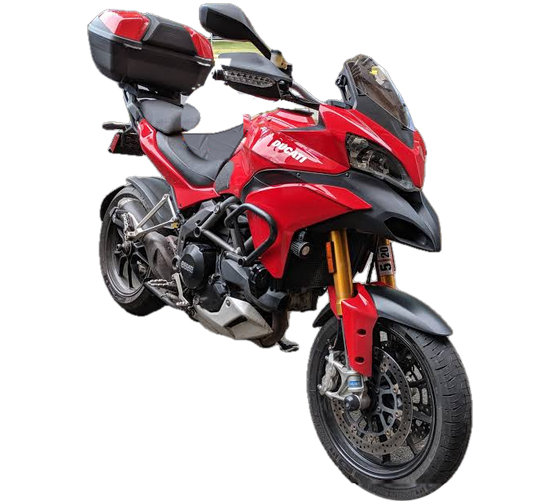
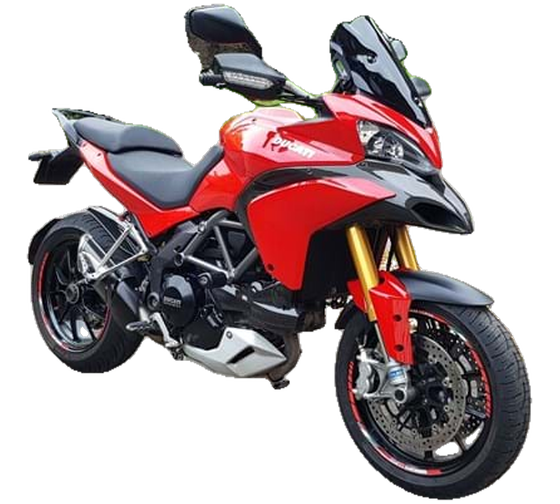
Ducati Multistrada 1200S : nouvelle photo
Claude-Session: https://claude.ai/code/session_01LUadX9RA5ykAi7zxkQXocc

diff --git a/sw.js b/sw.js
@@ -1,7 +1,7 @@
 /* Service worker : garde l'app disponible hors connexion.
    Change VERSION à chaque mise en ligne pour que les téléphones prennent la nouvelle version. */
-const VERSION = 'dms-v42';
-const FICHIERS = ['./', 'index.html', 'styles.css?v=39', 'app.js?v=40', 'donnees.js?v=39', 'icones.js?v=28', 'manifest.webmanifest?v=22', 'img/icone-192.png', 'img/icone-512.png', 'secours.js?v=20', 'polices/manrope-latin-wght-normal.woff2',
+const VERSION = 'dms-v43';
+const FICHIERS = ['./', 'index.html', 'styles.css?v=39', 'app.js?v=40', 'donnees.js?v=40', 'icones.js?v=28', 'manifest.webmanifest?v=22', 'img/icone-192.png', 'img/icone-512.png', 'secours.js?v=20', 'polices/manrope-latin-wght-normal.woff2',
   'img/logo.jpg', 'img/scooter.webp', 'img/cygnus-1.webp', 'img/cygnus-2.webp', 'img/cygnus-3.webp', 'img/rs-zero.webp', 'img/cygnus-4.webp', 'img/kymco-g6.webp', 'img/pgo-bon.webp', 'img/kymco-vjr-110.webp', 'img/kymco-vjr-125.webp', 'img/kymco-g5.webp', 'img/pgo-jbubu.webp', 'img/kymco-gp.webp', 'img/kymco-gp2.webp', 'img/sym-jet-sr.webp', 'img/sym-jet-evo.webp', 'img/kymco-new-many.webp', 'img/pgo-tigra.webp', 'img/casque.webp', 'img/pieces.webp', 'img/icone-192.png', 'img/icone-512.png'];
 
 self.addEventListener('install', (e) => {

diff --git a/donnees.js b/donnees.js
@@ -171,9 +171,9 @@ window.DMS_DONNEES = {
       specs: [['300 cc', 'Cylindrée'], ['Voge', 'Marque'], ['Néo-rétro', 'Style'], ['Occasion', 'État']],
       description: "Voge 300AC, roadster néo-rétro avec phare carré à LED. État, année et prix sur demande." },
     { id: 'ducati-multistrada-1200s', cat: 'scooters', genre: 'moto', nom: 'Ducati Multistrada 1200S', detail: '1200\u00a0cc · Trail routier', occasion: true, stock: null, cylindree: 1200, prix: null,
-      img: 'img/ducati-multistrada-1200s.webp',
+      img: 'img/ducati-multistrada-1200s.webp?v=2',
       specs: [['1200 cc', 'Cylindrée'], ['Ducati', 'Marque'], ['Trail routier', 'Style'], ['Occasion', 'État']],
-      description: "Ducati Multistrada 1200S, trail routier équipé d'un top-case. État, année et prix sur demande." },
+      description: "Ducati Multistrada 1200S, trail routier rouge à jantes noires. État, année et prix sur demande." },
     { id: 'kymco-many', cat: 'scooters', nom: 'Kymco Many 100/110', detail: '100/110\u00a0cc · Scooter', occasion: true, stock: null, cylindree: [100, 110], prix: null,
       img: 'img/kymco-many.webp',
       versions: [['100 cc', ''], ['110 cc', '']],

diff --git a/index.html b/index.html
@@ -25,7 +25,7 @@
 <noscript><p style="padding:20px">Activez JavaScript pour utiliser l'application Dagomotoshop.</p></noscript>
 <script src="secours.js?v=20"></script>
 <script src="icones.js?v=28"></script>
-<script src="donnees.js?v=39"></script>
+<script src="donnees.js?v=40"></script>
 <script src="app.js?v=40"></script>
 </body>
 </html>
